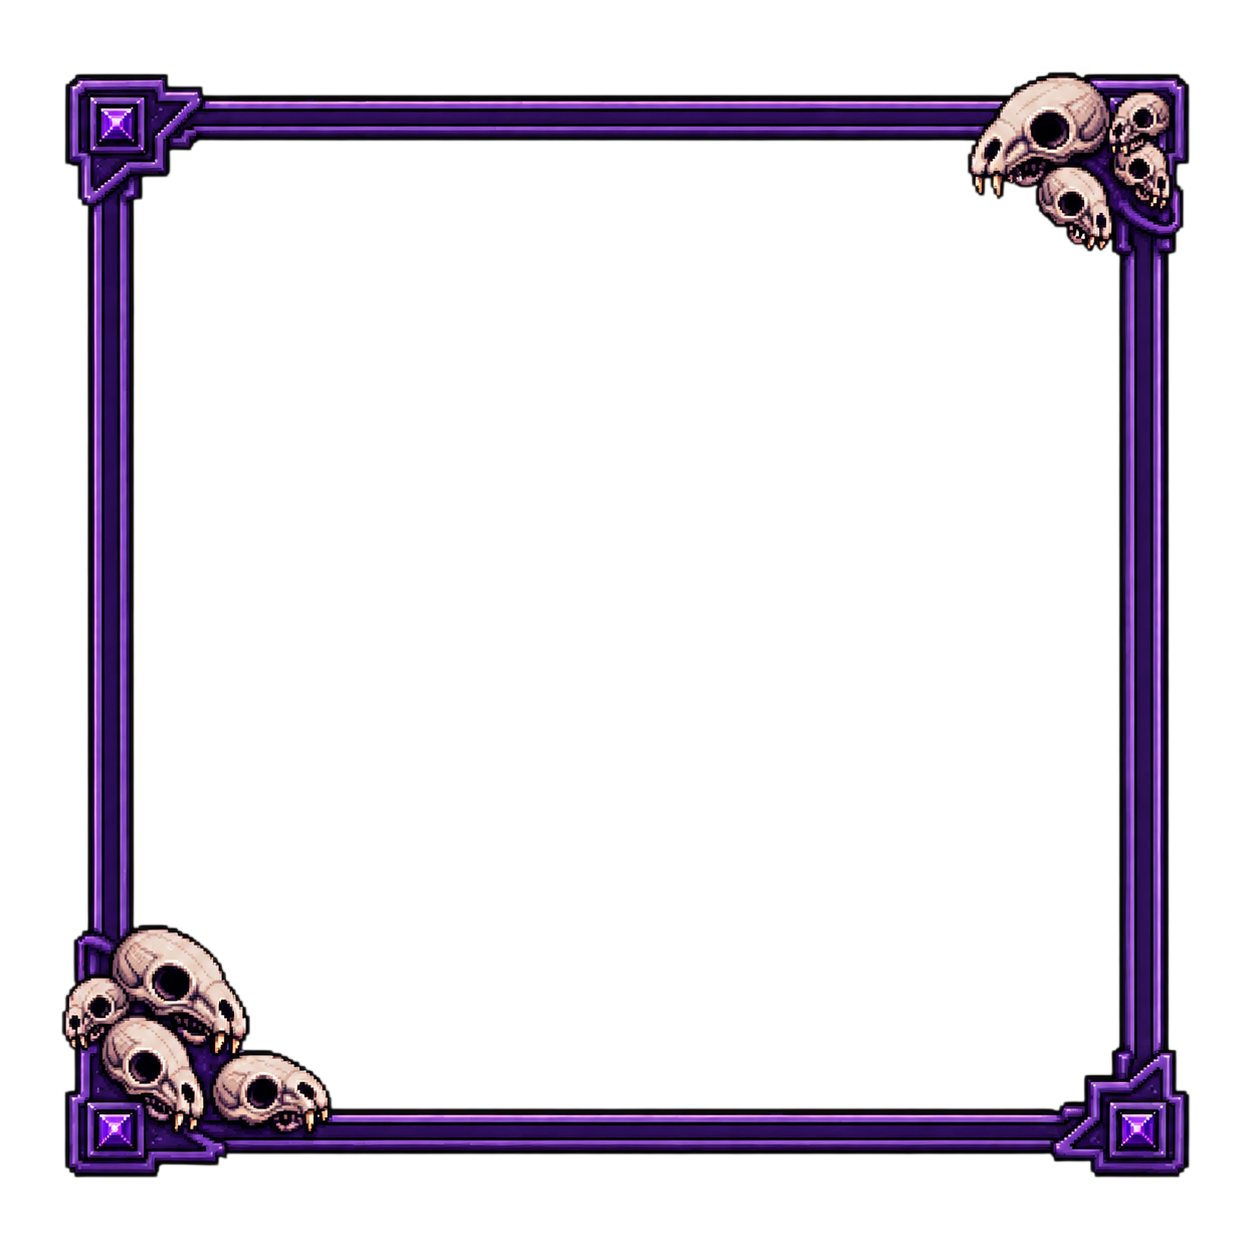
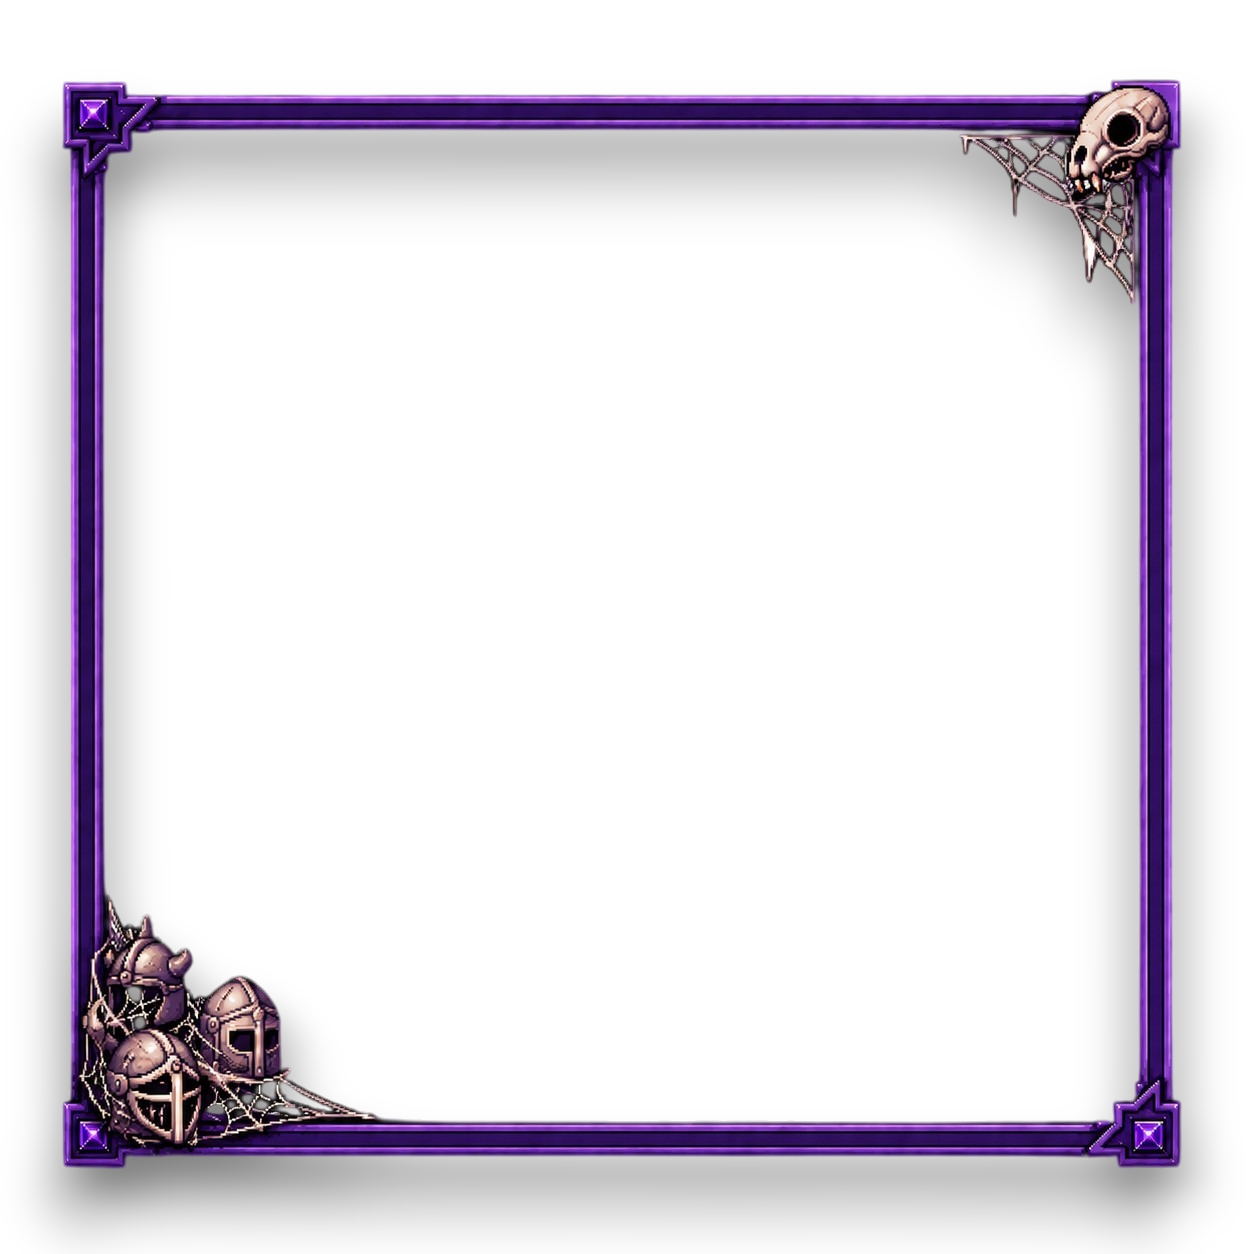
fix loader

Changed region(s): [[0.0311, 0.0311, 0.9641, 0.9952]]

diff --git a/src/game/runManager/runManager.js b/src/game/runManager/runManager.js
@@ -4,9 +4,15 @@ import GenerateLoot, { buildLevelRewardItem } from "./generateLoot";
 import Player from "../entity/Player";
 import { HERO_CLASS } from "../static/hero";
 import { getDoorEffect } from "../static/subtypeDoors";
-import { buildLootItem, LOOT_SOURCES, pickWeighted, getLootTypeWeights, getLootRarityWeights } from "../static/loot";
+import {
+  buildLootItem,
+  LOOT_SOURCES,
+  pickWeighted,
+  getLootTypeWeights,
+  getLootRarityWeights,
+} from "../static/loot";
 export default class RunManager {
-  constructor({ difficulty, typeRun, classHero, camera, domElement }) {
+  constructor({ difficulty, typeRun, classHero, camera, domElement, loader }) {
     this.difficulty = difficulty;
     this.typeRun = typeRun;
     this.classHero = classHero;
@@ -17,6 +23,7 @@ export default class RunManager {
     this.activeIndex = 0;
     this.aciveLevel = null;
     this.player = new Player(null, HERO_CLASS["warrior"]);
+    this.loader = loader;
     this.#init();
   }
   #init() {
@@ -73,9 +80,14 @@ export default class RunManager {
         let extraEnemies = enemyGenerator.enemies;
         if (effect.enemyMultiplier > 1) {
           const baseCount = extraEnemies.length;
-          const extraCount = Math.floor(baseCount * (effect.enemyMultiplier - 1));
+          const extraCount = Math.floor(
+            baseCount * (effect.enemyMultiplier - 1),
+          );
           for (let i = 0; i < extraCount; i++) {
-            extraEnemies.push({ ...extraEnemies[i % baseCount], id: baseCount + i });
+            extraEnemies.push({
+              ...extraEnemies[i % baseCount],
+              id: baseCount + i,
+            });
           }
         }
         const baseId = enemies.length;
@@ -104,7 +116,10 @@ export default class RunManager {
             );
           } else if (effect.category === "legendary") {
             const exclude = effect.exclude ?? [];
-            const typeWeights = getLootTypeWeights(options.index, LOOT_SOURCES.ground);
+            const typeWeights = getLootTypeWeights(
+              options.index,
+              LOOT_SOURCES.ground,
+            );
             for (const ex of exclude) {
               typeWeights[ex] = 0;
             }
@@ -120,14 +135,24 @@ export default class RunManager {
           } else {
             // random (possibly with exclusions)
             const exclude = effect.exclude ?? [];
-            const typeWeights = getLootTypeWeights(options.index, LOOT_SOURCES.ground);
+            const typeWeights = getLootTypeWeights(
+              options.index,
+              LOOT_SOURCES.ground,
+            );
             for (const ex of exclude) {
               typeWeights[ex] = 0;
             }
             const type = pickWeighted(typeWeights) ?? "gold";
-            const rarityWeights = getLootRarityWeights(options.index, LOOT_SOURCES.ground);
-            rarityWeights.rare = Math.floor(rarityWeights.rare * (1 + this.player.rarityBonus));
-            rarityWeights.legendary = Math.floor(rarityWeights.legendary * (1 + this.player.rarityBonus));
+            const rarityWeights = getLootRarityWeights(
+              options.index,
+              LOOT_SOURCES.ground,
+            );
+            rarityWeights.rare = Math.floor(
+              rarityWeights.rare * (1 + this.player.rarityBonus),
+            );
+            rarityWeights.legendary = Math.floor(
+              rarityWeights.legendary * (1 + this.player.rarityBonus),
+            );
             const rarity = pickWeighted(rarityWeights) ?? "common";
             extraGroundLoot.push(
               buildLootItem({
@@ -142,7 +167,10 @@ export default class RunManager {
 
         if (effect.enemyCount > 0) {
           const enemyGenerator = new GenerateEnemy(options.index, options.size);
-          const extraEnemies = enemyGenerator.enemies.slice(0, effect.enemyCount);
+          const extraEnemies = enemyGenerator.enemies.slice(
+            0,
+            effect.enemyCount,
+          );
           const baseId = enemies.length;
           for (let i = 0; i < extraEnemies.length; i++) {
             extraEnemies[i] = { ...extraEnemies[i], id: baseId + i };
@@ -190,8 +218,9 @@ export default class RunManager {
       this.player,
     );
   }
-  nextLevel() {
+  async nextLevel() {
     if (this.activeIndex === this.length - 1) return;
+    await this.loader();
     this.activeIndex++;
     const level = this.runMap[this.activeIndex];
     this.renderLevel(level);

diff --git a/src/components/App.jsx b/src/components/App.jsx
@@ -6,22 +6,60 @@ import { useEffect, useRef, useState } from "react";
 import { MenuContainer } from "./MenuContainer/MenuContainer";
 import { GameContainer } from "./GameContainer/GameContainer";
 
+const LOADER_TRANSITION_DURATION = 600;
+
+function wait(duration) {
+  return new Promise((resolve) => setTimeout(resolve, duration));
+}
+
 export function App() {
   const [loading, setLoading] = useState(true);
+  const [loaderVisible, setLoaderVisible] = useState(true);
   const [window, setWindow] = useState("main-menu");
+  const transitionInProgressRef = useRef(false);
+
   useEffect(() => {
     setLanguage("ru");
   }, []);
 
+  useEffect(() => {
+    if (loading) {
+      setLoaderVisible(true);
+      return;
+    }
+
+    const timeoutId = setTimeout(() => {
+      setLoaderVisible(false);
+    }, 600);
+
+    return () => {
+      clearTimeout(timeoutId);
+    };
+  }, [loading]);
+
+  async function transitionTo(nextWindow) {
+    if (transitionInProgressRef.current) {
+      return;
+    }
+
+    transitionInProgressRef.current = true;
+    setLoading(true);
+
+    await wait(LOADER_TRANSITION_DURATION);
+
+    setWindow(nextWindow);
+    transitionInProgressRef.current = false;
+  }
+
   return (
     <>
       <div className="app-content">
-        {loading && <Loader />}
+        {loaderVisible && <Loader active={loading} />}
         {window === "main-menu" && (
-          <MenuContainer setLoading={setLoading} setWindow={setWindow} />
+          <MenuContainer setLoading={setLoading} transitionTo={transitionTo} />
         )}
         {window === "game" && (
-          <GameContainer setLoading={setLoading} setWindow={setWindow} />
+          <GameContainer setLoading={setLoading} transitionTo={transitionTo} />
         )}
       </div>
     </>

diff --git a/src/game/main.js b/src/game/main.js
@@ -34,7 +34,12 @@ export async function createGame(
   let paused = false;
   let disposed = false;
   let resizeObserver = null;
-
+  const loading = async (activateFunction = null) => {
+    options.loading?.(true);
+    await new Promise((res) => setTimeout(res, 1000));
+    activateFunction?.();
+    options.loading?.(false);
+  };
   const resize = () => {
     if (!sceneManager || !camera || disposed) return;
 
@@ -99,6 +104,7 @@ export async function createGame(
       classHero: "warrior",
       camera: camera.getCamera(),
       domElement: sceneManager.renderer.domElement,
+      loader: loading,
     });
 
     if (options.debug) {
@@ -120,10 +126,16 @@ export async function createGame(
         resume,
         dispose,
         exit: () => {
-          dispose();
           options.exit?.();
+          dispose();
         },
-        nextLevel: () => run.nextLevel(),
+        nextLevel: async () => {
+          run.nextLevel();
+          //options.loading?.(true);
+          //await new Promise((res) => setTimeout(res, 1000));
+          //run.nextLevel();
+          //options.loading?.(false);
+        },
       };
 
       gui.add(gameControls, "pause").name("Pause");
@@ -192,7 +204,6 @@ export async function createGame(
     gui = null;
     stats = null;
   };
-  
 
   return {
     start,

diff --git a/src/components/Loader/Loader.jsx b/src/components/Loader/Loader.jsx
@@ -1,12 +1,29 @@
 import { useTranslation } from "react-i18next";
+import { useEffect, useState } from "react";
 import "./Loader.css";
 
-export function Loader() {
+export function Loader({ active }) {
   const { t } = useTranslation("loader");
+  const [entered, setEntered] = useState(false);
   const spriteRows = [0, 1, 2, 3, 4];
 
+  useEffect(() => {
+    if (!active) {
+      setEntered(false);
+      return;
+    }
+
+    const animationFrameId = requestAnimationFrame(() => {
+      setEntered(true);
+    });
+
+    return () => {
+      cancelAnimationFrame(animationFrameId);
+    };
+  }, [active]);
+
   return (
-    <div className="loader-container">
+    <div className={`loader-container ${entered ? "is-active" : "is-exit"}`}>
       <div className="loader-container__loader">
         <h1>{t("loading")}</h1>
         <div className="loader-container__animation" aria-hidden="true">

diff --git a/src/components/MenuContainer/MenuContainer.jsx b/src/components/MenuContainer/MenuContainer.jsx
@@ -9,7 +9,7 @@ import { FrameContainer } from "../FrameContainer/FrameContainer.jsx";
 import { Settings } from "./Settings/Settings.jsx";
 import { ButtonMenu } from "./ButtonMenu/ButtonMenu.jsx";
 const menuList = ["newGame", "continue", "settings", "exit"];
-export function MenuContainer({ children, setLoading, setWindow }) {
+export function MenuContainer({ children, setLoading, transitionTo }) {
   const backgroundRef = useRef(null);
   const frameContainerRef = useRef(null);
   const { t } = useTranslation("common");
@@ -65,7 +65,7 @@ export function MenuContainer({ children, setLoading, setWindow }) {
   }, []);
   function cliclItem(type) {
     if (type === "newGame") {
-      setWindow("game");
+      transitionTo("game");
     } else {
       setActiveItem(type);
     }

diff --git a/src/components/GameContainer/GameContainer.jsx b/src/components/GameContainer/GameContainer.jsx
@@ -1,8 +1,8 @@
 import { BackgroundRender } from "../BackgroundRender/BackgroundRender";
 import "./GameContainer.css";
-import { useEffect, useRef, useState } from "react";
+import { useEffect, useRef } from "react";
 import { createGame } from "../../game/main.js";
-export function GameContainer({ setLoading, setWindow }) {
+export function GameContainer({ setLoading, transitionTo }) {
   const gameRef = useRef(null);
   useEffect(() => {
     let game = null;
@@ -14,8 +14,7 @@ export function GameContainer({ setLoading, setWindow }) {
           if (!cancelled) setLoading(boolean);
         },
         exit: () => {
-          setLoading(true);
-          setWindow("main-menu");
+          transitionTo("main-menu");
         },
         debug: true,
       });

diff --git a/src/components/FrameContainer/FrameContainer.css b/src/components/FrameContainer/FrameContainer.css
@@ -31,7 +31,7 @@
   position: absolute;
   inset: 0;
   border-style: solid;
-  border-image-source: url("../../assets/png/border2.png");
+  border-image-source: url("../../assets/png/border.png");
   border-image-slice: 308 298 355 362 fill;
   border-width: calc(308px * var(--frame-scale))
     calc(298px * var(--frame-scale)) calc(355px * var(--frame-scale))

diff --git a/src/components/Loader/Loader.css b/src/components/Loader/Loader.css
@@ -9,6 +9,16 @@
   justify-content: end;
   align-items: end;
   z-index: 100;
+  opacity: 0;
+  transition: opacity 0.6s ease;
+  pointer-events: none;
+}
+.loader-container.is-active {
+  opacity: 1;
+  pointer-events: auto;
+}
+.loader-container.is-exit {
+  opacity: 0;
 }
 .loader-container__loader {
   display: flex;
